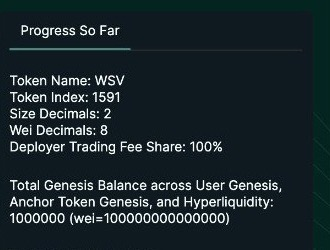
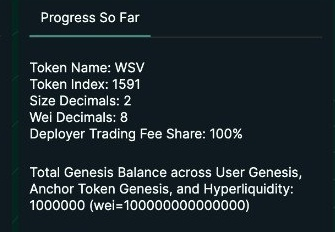
Add Progress So Far screenshot after Step 2 and improve image crops
Move Token Index reference from Step 1 to Step 2 and add a cropped
screenshot showing the Progress So Far panel after the fee share step.
Re-crop both screenshots from high-res sources for better quality.

Changed region(s): [[0.0303, 0.694, 0.9091, 0.9052], [0.0303, 0.2414, 0.7273, 0.6336], [0.0303, 0.0302, 0.4545, 0.2112]]

diff --git a/docs/products/token-transfers/native-token-transfers/guides/deploy-to-hyperliquid.md b/docs/products/token-transfers/native-token-transfers/guides/deploy-to-hyperliquid.md
@@ -53,11 +53,13 @@ These values must satisfy the constraint: **`szDecimals + 5 <= weiDecimals`** as
 !!! note
     The HIP-1 token on HyperCore uses `weiDecimals`, which may differ from your ERC-20 token's decimals on HyperEVM. The asset bridge handles the conversion between the two.
 
-After this step completes, the **Progress So Far** panel on the right side of the screen displays your **Token Index**, the unique integer identifier for your spot token on HyperCore. Save this value as you'll need it for the `ntt hype link` command after completing the Deploy Spot process.
-
 ### Step 2: Set Deployer Trading Fee Share
 
 Configure the percentage of trading fees on the spot pair that go to your deployer address. The remainder is burned. This value can only be **decreased** after deployment, never increased.
+
+After completing this step, the **Progress So Far** panel on the right side of the screen displays your **Token Index**, the unique integer identifier for your spot token on HyperCore. Save this value as you'll need it for the `ntt hype link` command after completing the Deploy Spot process.
+
+![The Progress So Far panel in the Deploy Spot UI after Step 2, showing Token Index and fee share](/docs/images/products/native-token-transfers/guides/hyperliquid/deploy-spot-progress-step2.jpeg)
 
 ### Step 3: Set Genesis Balances
 
